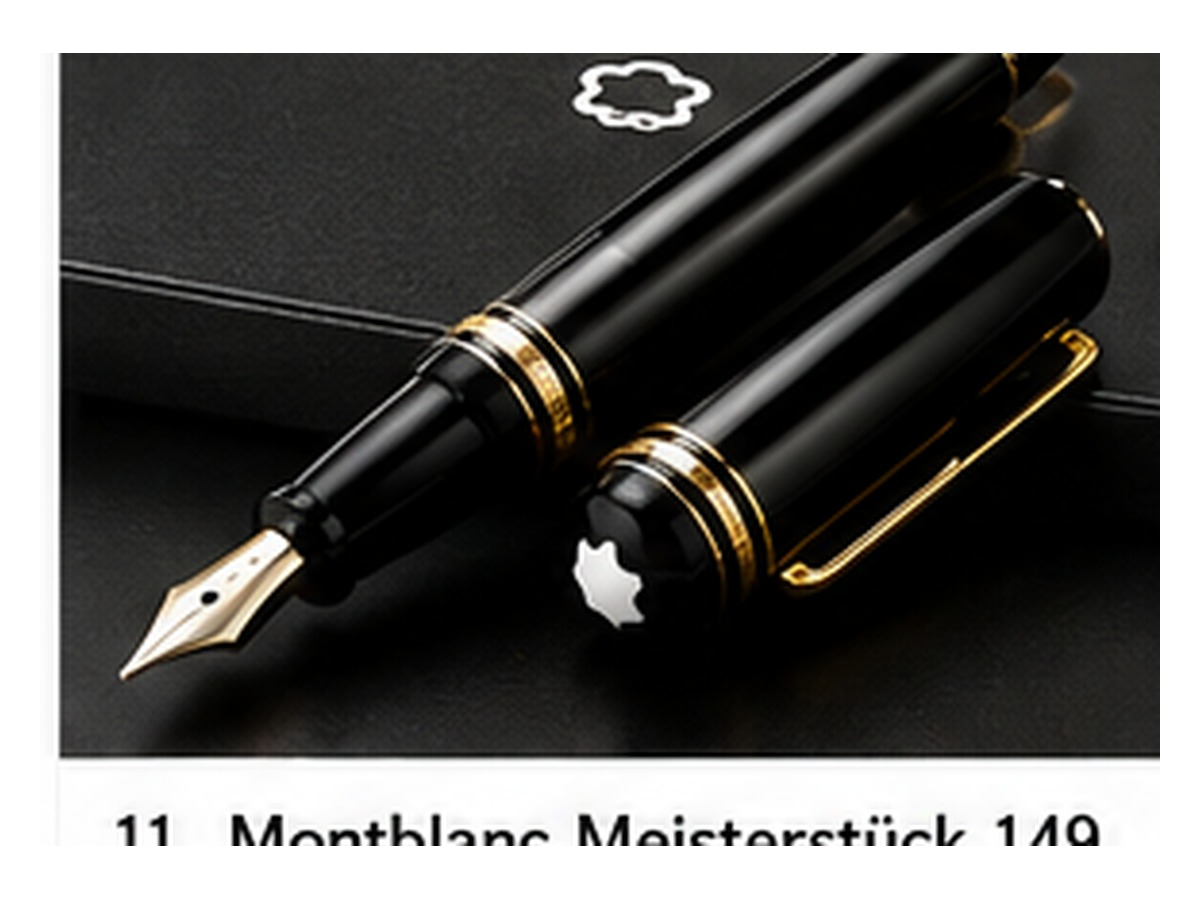
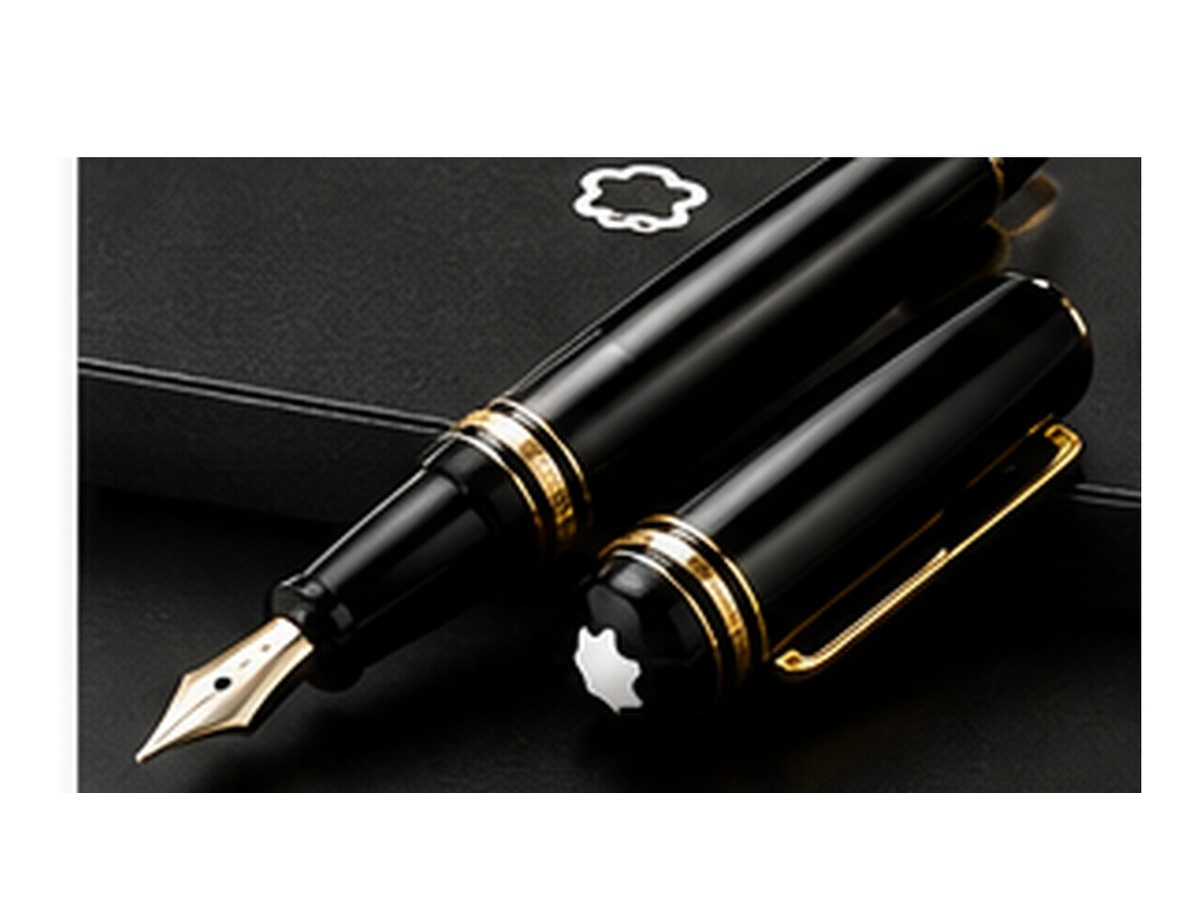
Add files via upload

diff --git a/style.css b/style.css
@@ -14,3 +14,38 @@ footer{background:#10161c;color:#e8e8e8;padding:45px 5% 0}.footer-grid{display:g
 
 .brand-row{display:flex;align-items:center;justify-content:space-between;gap:8px}
 .high-badge{display:inline-block;padding:3px 7px;border:1px solid var(--gold);color:var(--gold);font:700 9px Arial,sans-serif;letter-spacing:.08em;border-radius:999px}
+
+/* --- product-card clipping fix --- */
+.photo{
+  aspect-ratio: 4 / 3;
+  overflow: hidden;
+  background: #fff;
+}
+.photo img{
+  width:100%;
+  height:100%;
+  object-fit:contain;
+  object-position:center;
+  padding:8px;
+}
+.product-card{
+  overflow:visible;
+}
+.product-info{
+  overflow:visible;
+}
+.product-card h3{
+  min-height:0;
+  height:auto;
+  overflow:visible;
+  white-space:normal;
+  word-break:normal;
+  overflow-wrap:anywhere;
+  line-height:1.45;
+}
+.regular,
+.shark-label,
+.sale{
+  white-space:normal;
+  overflow:visible;
+}
